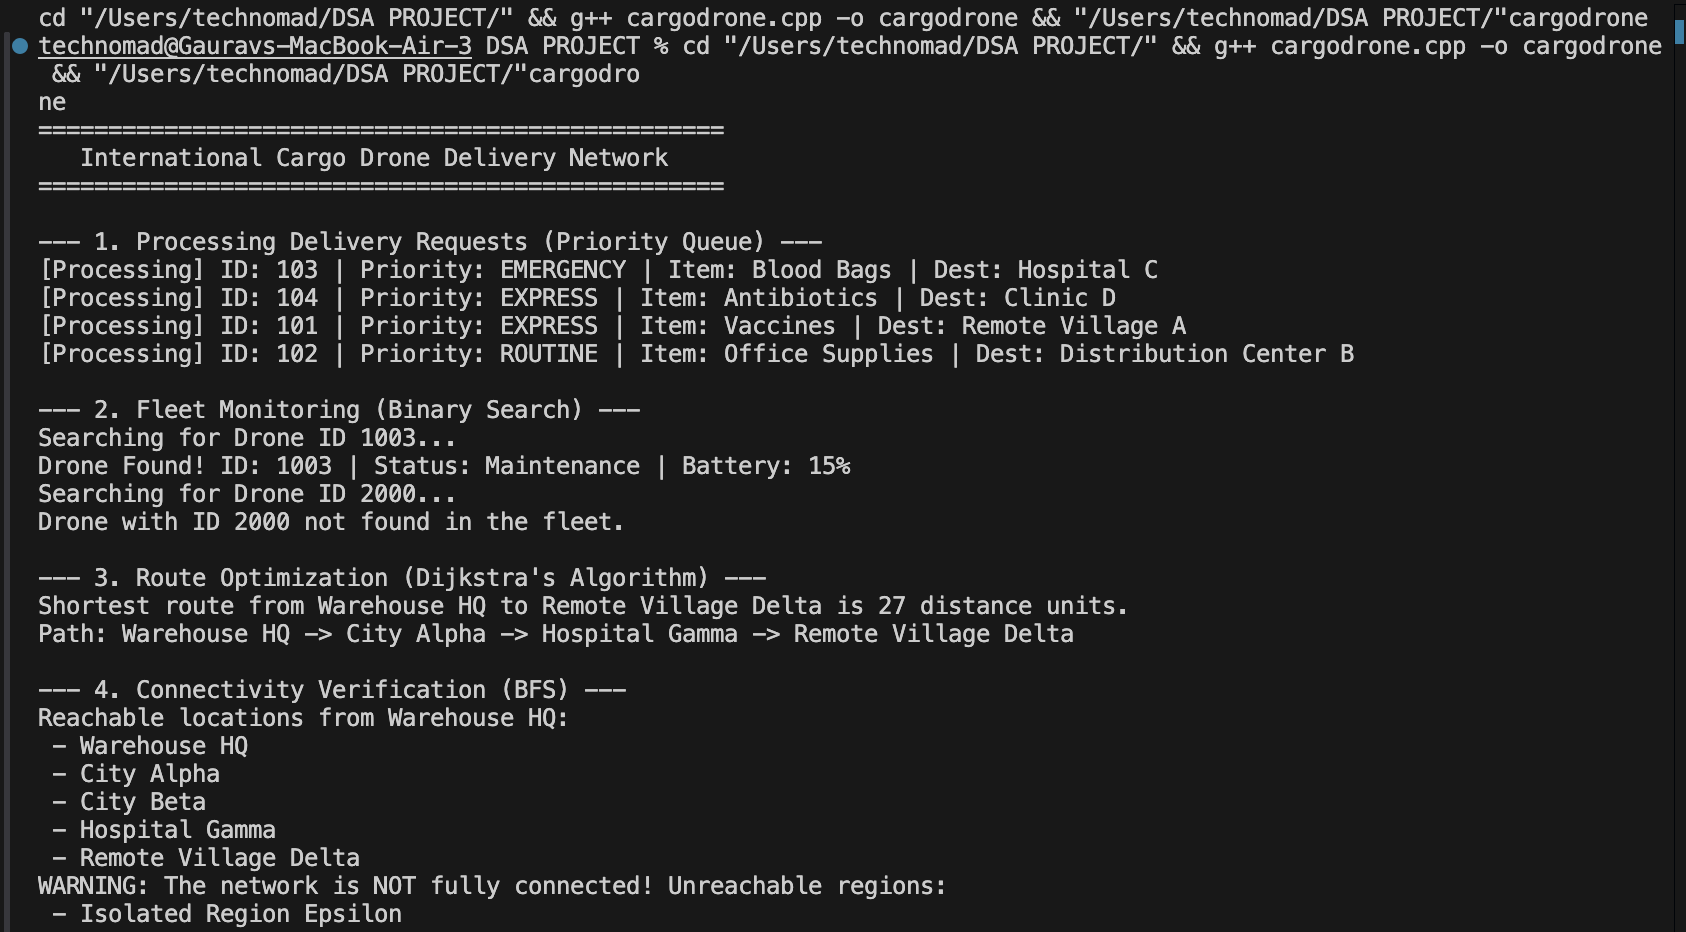
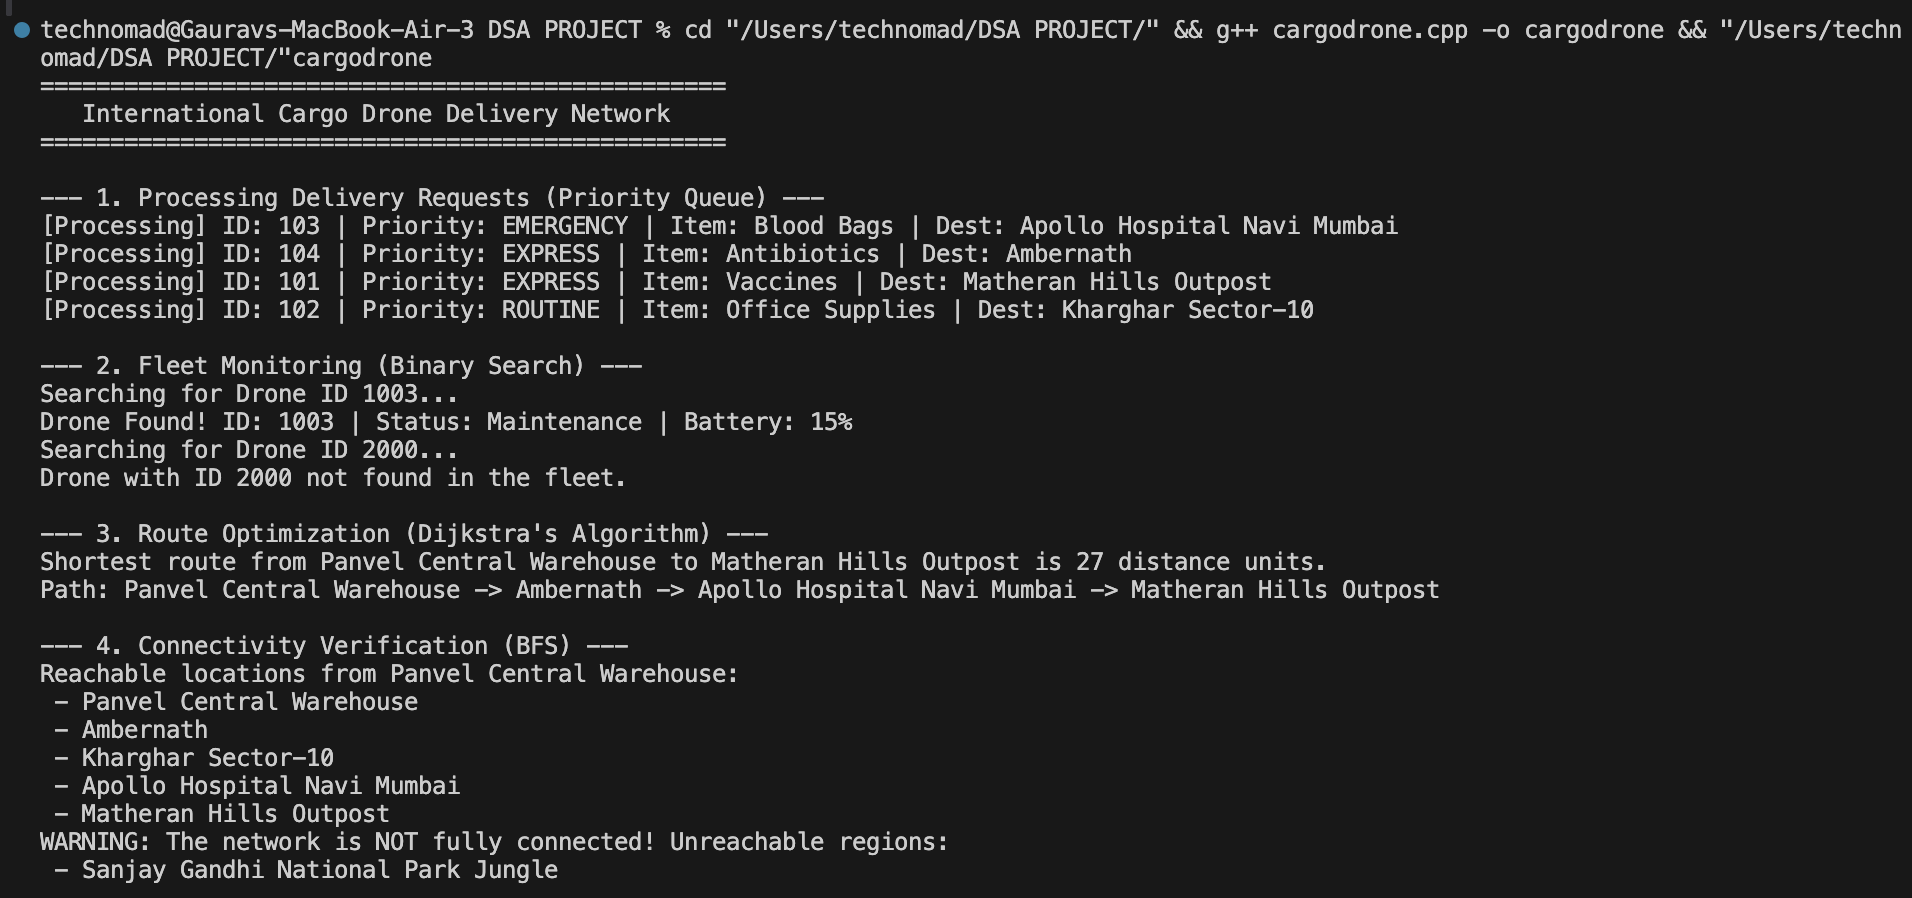
first commit

Changed region(s): [[0.0, 0.0, 1.0, 1.0]]

diff --git a/cargodrone.cpp b/cargodrone.cpp
@@ -8,7 +8,6 @@
 
 using namespace std;
 
-// 1. Delivery Request Handling Using Priority Queue
 enum Priority {
     ROUTINE = 1,
     EXPRESS = 2,
@@ -21,31 +20,27 @@ struct DeliveryRequest {
     Priority priority;
     string item;
 
-    // Max-heap: highest priority should be at the top
     bool operator<(const DeliveryRequest& other) const {
         return priority < other.priority;
     }
 };
 
-// 2. Drone Structure for Binary Search
 struct Drone {
     int id;
-    string status; // e.g., "Available", "Maintenance", "In Transit"
+    string status;
     int batteryLevel;
 
-    // Sort by ID to enable binary search
     bool operator<(const Drone& other) const {
         return id < other.id;
     }
 };
 
-// 3. Network Graph for Route Optimization (Dijkstra) and Connectivity (BFS)
 class DroneNetwork {
 private:
     int numLocations;
     vector<string> locationNames;
     unordered_map<string, int> locationIds;
-    vector<vector<pair<int, int>>> adjList; // pair<neighbor_id, weight>
+    vector<vector<pair<int, int>>> adjList;
 
 public:
     DroneNetwork() : numLocations(0) {}
@@ -65,10 +60,9 @@ public:
         int idU = locationIds[u];
         int idV = locationIds[v];
         adjList[idU].push_back({idV, distance});
-        adjList[idV].push_back({idU, distance}); // Undirected graph
+        adjList[idV].push_back({idU, distance});
     }
 
-    // Route Optimization using Dijkstra's Algorithm
     void findShortestPath(const string& start, const string& destination) {
         if (locationIds.find(start) == locationIds.end() || locationIds.find(destination) == locationIds.end()) {
             cout << "Invalid locations for route optimization.\n";
@@ -82,7 +76,6 @@ public:
         vector<int> parent(numLocations, -1);
         dist[startId] = 0;
 
-        // Min-heap: pair<distance, node_id>
         priority_queue<pair<int, int>, vector<pair<int, int>>, greater<pair<int, int>>> pq;
         pq.push({0, startId});
 
@@ -92,8 +85,7 @@ public:
             pq.pop();
 
             if (d > dist[u]) continue;
-
-            if (u == destId) break; // Reached target destination
+            if (u == destId) break;
 
             for (auto& edge : adjList[u]) {
                 int v = edge.first;
@@ -123,7 +115,6 @@ public:
         }
     }
 
-    // Connectivity Verification using BFS
     void checkConnectivity(const string& start) {
         if (locationIds.find(start) == locationIds.end()) {
             cout << "Invalid starting location for connectivity check.\n";
@@ -169,7 +160,6 @@ public:
     }
 };
 
-// Drone Search using Binary Search
 void searchDrone(const vector<Drone>& fleet, int searchId) {
     int left = 0;
     int right = fleet.size() - 1;
@@ -201,16 +191,13 @@ int main() {
     cout << "   International Cargo Drone Delivery Network    \n";
     cout << "=================================================\n\n";
 
-    // ---------------------------------------------------------
-    // 1. Delivery Request Handling Using Priority Queue
-    // ---------------------------------------------------------
     cout << "--- 1. Processing Delivery Requests (Priority Queue) ---\n";
     priority_queue<DeliveryRequest> deliveryQueue;
     
-    deliveryQueue.push({101, "Remote Village A", EXPRESS, "Vaccines"});
-    deliveryQueue.push({102, "Distribution Center B", ROUTINE, "Office Supplies"});
-    deliveryQueue.push({103, "Hospital C", EMERGENCY, "Blood Bags"});
-    deliveryQueue.push({104, "Clinic D", EXPRESS, "Antibiotics"});
+    deliveryQueue.push({101, "Matheran Hills Outpost", EXPRESS, "Vaccines"});
+    deliveryQueue.push({102, "Kharghar Sector-10", ROUTINE, "Office Supplies"});
+    deliveryQueue.push({103, "Apollo Hospital Navi Mumbai", EMERGENCY, "Blood Bags"});
+    deliveryQueue.push({104, "Ambernath", EXPRESS, "Antibiotics"});
 
     while (!deliveryQueue.empty()) {
         DeliveryRequest req = deliveryQueue.top();
@@ -221,9 +208,6 @@ int main() {
     }
     cout << "\n";
 
-    // ---------------------------------------------------------
-    // 2. Drone Search Using Binary Search
-    // ---------------------------------------------------------
     cout << "--- 2. Fleet Monitoring (Binary Search) ---\n";
     vector<Drone> fleet = {
         {1001, "Available", 95},
@@ -233,7 +217,6 @@ int main() {
         {1005, "In Transit", 60}
     };
     
-    // Sort fleet by ID as a requirement for Binary Search
     sort(fleet.begin(), fleet.end()); 
     
     int searchId1 = 1003;
@@ -245,33 +228,29 @@ int main() {
     searchDrone(fleet, searchId2);
     cout << "\n";
 
-    // ---------------------------------------------------------
-    // 3 & 4. Route Optimization & Connectivity (Graph)
-    // ---------------------------------------------------------
     DroneNetwork network;
-    network.addLocation("Warehouse HQ");
-    network.addLocation("City Alpha");
-    network.addLocation("City Beta");
-    network.addLocation("Hospital Gamma");
-    network.addLocation("Remote Village Delta");
-    network.addLocation("Isolated Region Epsilon"); // This node will be intentionally disconnected
 
-    network.addRoute("Warehouse HQ", "City Alpha", 10);
-    network.addRoute("Warehouse HQ", "City Beta", 15);
-    network.addRoute("City Alpha", "Hospital Gamma", 5);
-    network.addRoute("City Beta", "Hospital Gamma", 8);
-    network.addRoute("City Beta", "Remote Village Delta", 20);
-    network.addRoute("Hospital Gamma", "Remote Village Delta", 12);
-    // Note: No routes are added for "Isolated Region Epsilon"
+    network.addLocation("Panvel Central Warehouse");
+    network.addLocation("Ambernath");
+    network.addLocation("Kharghar Sector-10");
+    network.addLocation("Apollo Hospital Navi Mumbai");
+    network.addLocation("Matheran Hills Outpost");
+    network.addLocation("Sanjay Gandhi National Park Jungle");
 
-    // --- 3. Dijkstra's Algorithm ---
+    network.addRoute("Panvel Central Warehouse", "Ambernath", 10);
+    network.addRoute("Panvel Central Warehouse", "Kharghar Sector-10", 15);
+    network.addRoute("Ambernath", "Apollo Hospital Navi Mumbai", 5);
+    network.addRoute("Ambernath", "Kharghar Sector-10", 15);
+    network.addRoute("Kharghar Sector-10", "Apollo Hospital Navi Mumbai", 8);
+    network.addRoute("Kharghar Sector-10", "Matheran Hills Outpost", 20);
+    network.addRoute("Apollo Hospital Navi Mumbai", "Matheran Hills Outpost", 12);
+
     cout << "--- 3. Route Optimization (Dijkstra's Algorithm) ---\n";
-    network.findShortestPath("Warehouse HQ", "Remote Village Delta");
+    network.findShortestPath("Panvel Central Warehouse", "Matheran Hills Outpost");
     cout << "\n";
 
-    // --- 4. Breadth First Search (BFS) ---
     cout << "--- 4. Connectivity Verification (BFS) ---\n";
-    network.checkConnectivity("Warehouse HQ");
+    network.checkConnectivity("Panvel Central Warehouse");
     cout << "\n";
 
     return 0;